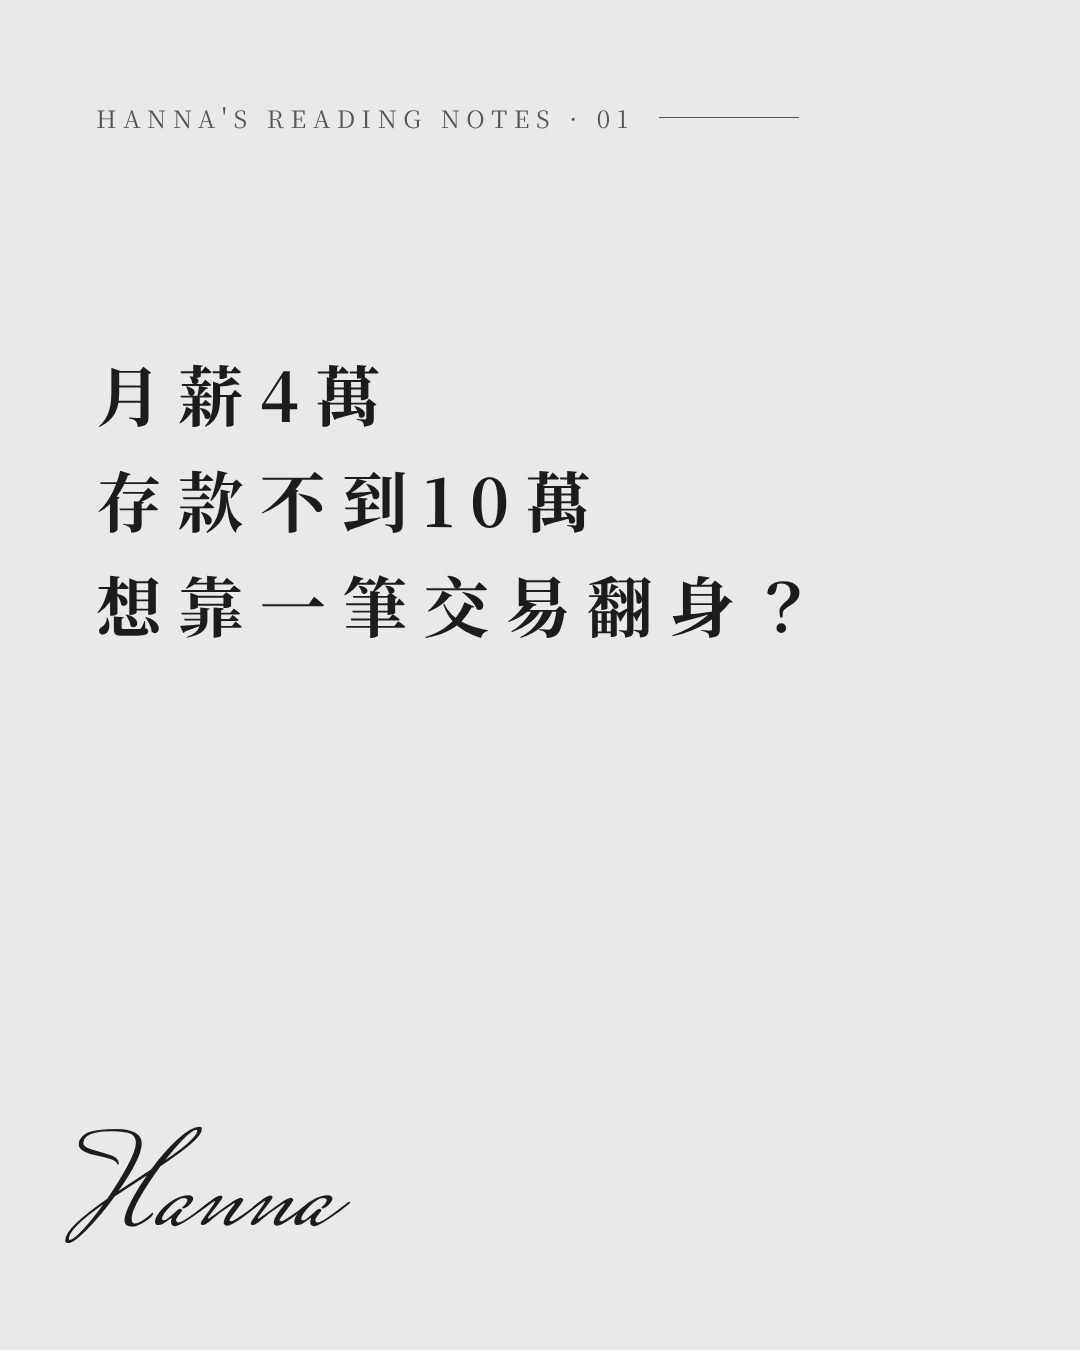
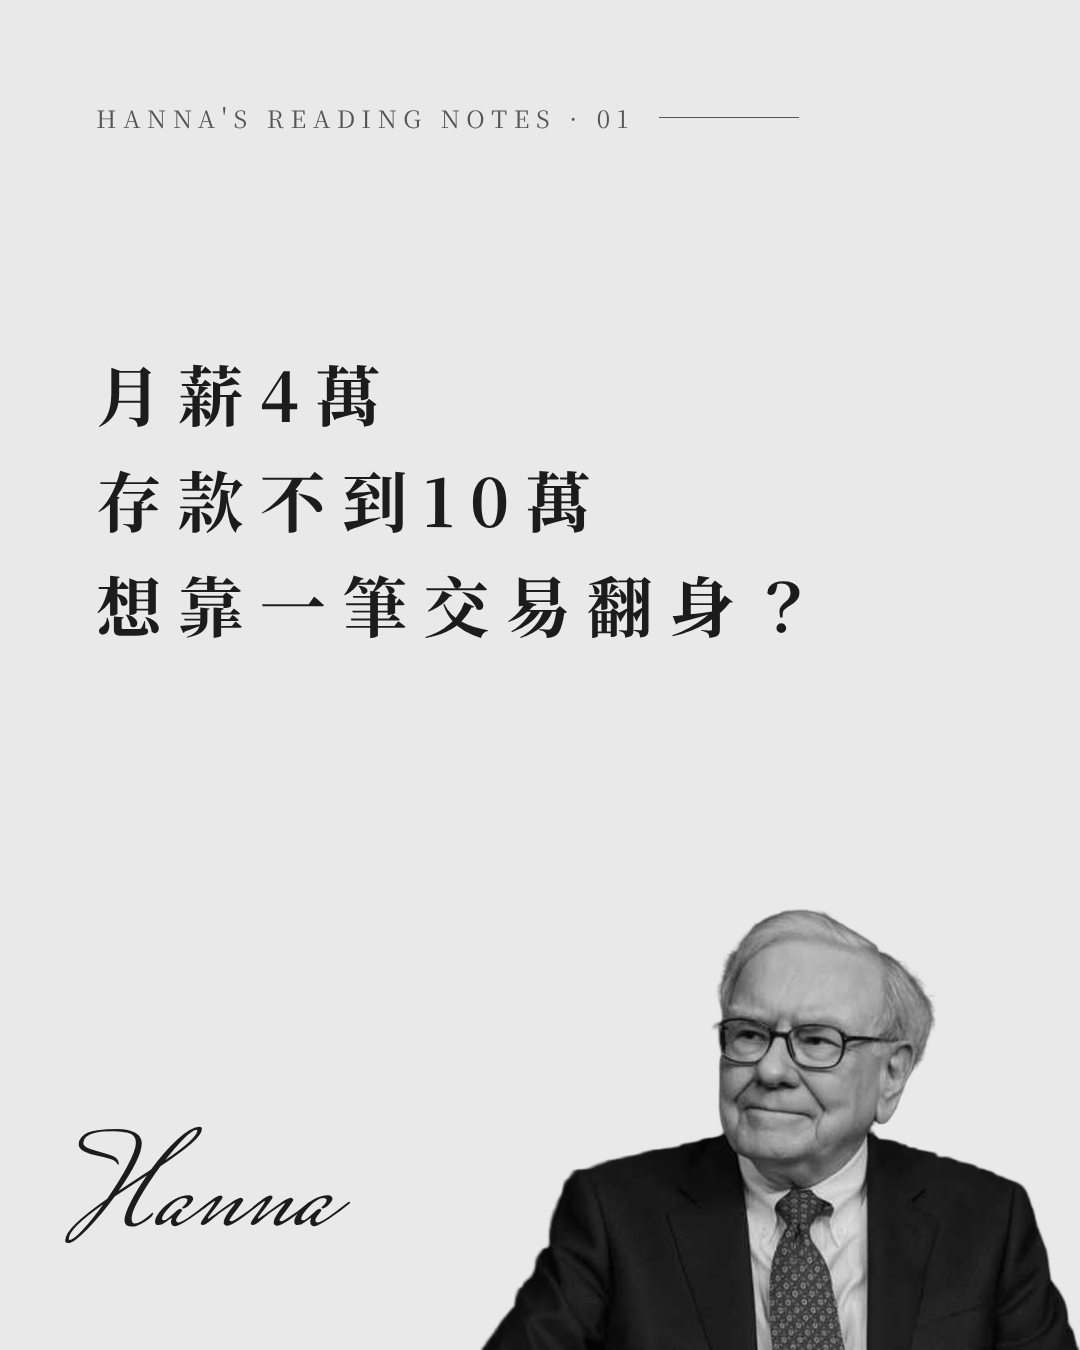
複利翻身輪播：封面加入巴菲特去背照
Claude-Session: https://claude.ai/code/session_01AFjNkU8XspDCm6xvkskaQj

Changed region(s): [[0.4278, 0.6533, 1.0, 1.0]]

diff --git a/IP經營/輪播_複利翻身/slides.html b/IP經營/輪播_複利翻身/slides.html
@@ -20,7 +20,7 @@
   }
   .series::after { content: ""; width: 140px; height: 1px; background: var(--soft); }
   .person {
-    position: absolute; right: 0; bottom: 0; width: 430px; height: 520px;
+    position: absolute; right: 0; bottom: 0; width: 600px; height: 441px;
     background: url(person.png) center top / cover no-repeat;
   }
   .who { position: absolute; left: 96px; bottom: 330px; }

diff --git a/IP經營/輪播貼文_複利翻身.md b/IP經營/輪播貼文_複利翻身.md
@@ -2,7 +2,7 @@
 
 圖檔：`IP經營/輪播_複利翻身/01.png`～`11.png`
 人物：Warren Buffett 巴菲特（封面不顯示姓名，第 5 張揭曉）
-封面人物照：待使用者提供，收到後放成 `IP經營/輪播_複利翻身/person.png` 並重新算圖
+封面人物照：使用者提供的第一張照片（頭到肩膀完整），已去背（birefnet-portrait）
 
 依據數據調整：
 - 封面用讀者自己的數字（月薪、存款），對準 25～34 歲受眾
